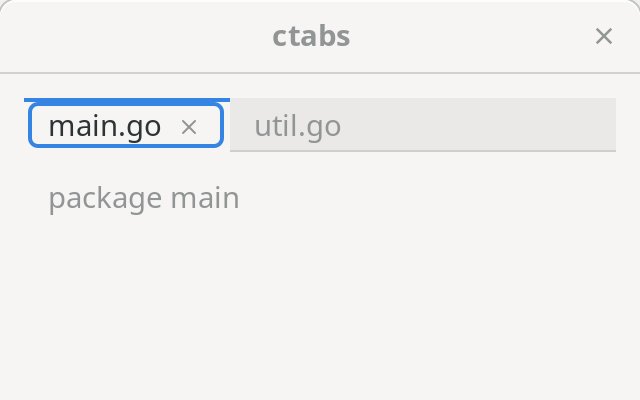
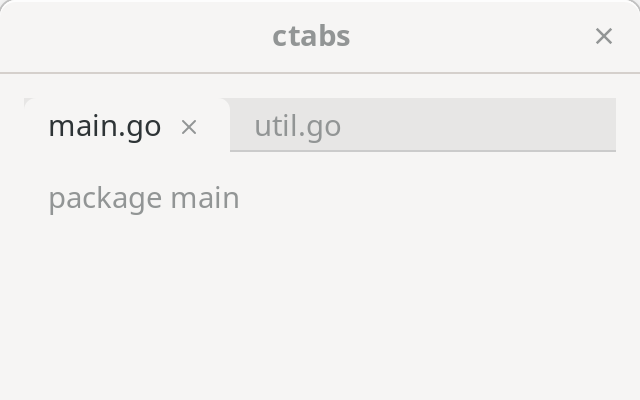
gowt: CTabs have one selection mark (the joined tab with round corners), the focus ring only for keyboard focus, dividers on Windows and macOS

Changed region(s): [[0.0312, 0.24, 0.375, 0.39]]

diff --git a/ctabs_render.go b/ctabs_render.go
@@ -13,6 +13,9 @@ type tabRenderer struct {
 	*swt.CTabFolderRenderer
 	f      *swt.CTabFolder
 	colors map[RGB]*swt.Color
+	// keys is true after a navigation key and false after a mouse press, the rule of the OS focus
+	// rings: none for a click and none for the focus a window starts with.
+	keys bool
 }
 
 // newTabRenderer installs the renderer on f and sets the tab height from the density tokens.
@@ -21,6 +24,7 @@ func newTabRenderer(f *swt.CTabFolder) *tabRenderer {
 	r.CTabFolderRenderer = swt.NewCTabFolderRenderer(f)
 	r.SetImpl_(r)
 	f.SetRenderer(r)
+	r.trackKeys()
 	f.SetTabHeight(int32(Spacing.ControlHeight - 1))
 	return r
 }
@@ -39,7 +43,7 @@ func (r *tabRenderer) palette() tabPalette {
 	}
 	d := r.f.GetDisplay()
 	p := tabPalette{base: rgbOf(r.f.GetBackground().GetRGB()), fg: rgbOf(r.f.GetForeground().GetRGB())}
-	shade := 0.05
+	shade := 0.06
 	if dark {
 		shade = 0.25
 	}
@@ -161,14 +165,26 @@ func (r *tabRenderer) drawTab(i, state int32, b *swt.Rectangle, gc *swt.GC) {
 	}
 	switch {
 	case sel:
-		r.fill(gc, p.base, b.X, b.Y, b.Width, b.Height)
-		iy := b.Y
-		if r.bottom() {
-			iy = b.Y + b.Height - 2
+		// The tab is the content's surface with round top corners and covers the hairline under it.
+		old := gc.GetClipping()
+		gc.SetClipping(b.X, b.Y, b.Width, b.Height)
+		gc.SetBackground(r.c(p.base))
+		if tabRadius == 0 {
+			gc.FillRectangle(b.X, b.Y, b.Width, b.Height)
+		} else {
+			gc.SetAntialias(swt.ON)
+			y := b.Y
+			if r.bottom() {
+				y -= tabRadius
+			}
+			gc.FillRoundRectangle(b.X, y, b.Width, b.Height+tabRadius, 2*tabRadius, 2*tabRadius)
 		}
-		r.fill(gc, p.accent, b.X, iy, b.Width, 2)
+		gc.SetClipping(old.X, old.Y, old.Width, old.Height)
 	case hot:
 		r.fill(gc, p.hover, b.X, bodyY, b.Width, bodyH)
+	}
+	if tabDividers && !sel && !hot && i+1 < r.f.GetItemCount() && i+1 != r.f.GetSelectionIndex() {
+		r.fill(gc, p.line, b.X+b.Width-1, bodyY+8, 1, bodyH-16)
 	}
 	x, right := b.X+int32(Spacing.MD), b.X+b.Width-int32(Spacing.MD)
 	var closeR *swt.Rectangle
@@ -194,7 +210,7 @@ func (r *tabRenderer) drawTab(i, state int32, b *swt.Rectangle, gc *swt.GC) {
 		gc.SetForeground(r.c(col))
 		gc.DrawTextStringXYFlags(text, x, bodyY+(bodyH-ext.Y)/2, swt.CTabFolderRendererFLAGS)
 	}
-	if sel && r.f.IsFocusControl() {
+	if sel && r.keys && r.f.IsFocusControl() {
 		gc.SetAntialias(swt.ON)
 		gc.SetLineWidth(2)
 		gc.SetForeground(r.c(p.accent))
@@ -267,3 +283,37 @@ func redrawOnTheme(f *swt.CTabFolder) {
 type tabTheme struct{ f *swt.CTabFolder }
 
 func (t *tabTheme) HandleEvent(*swt.Event) { t.f.Redraw() }
+
+// trackKeys follows the keyboard: a navigation key shows the focus ring, a mouse press hides it.
+func (r *tabRenderer) trackKeys() {
+	d := r.f.GetDisplay()
+	l := &tabKeys{r}
+	d.AddFilter(swt.KeyDown, l)
+	d.AddFilter(swt.MouseDown, l)
+	r.f.AddDisposeListener(disposeFunc(func() {
+		d.RemoveFilter(swt.KeyDown, l)
+		d.RemoveFilter(swt.MouseDown, l)
+	}))
+}
+
+type tabKeys struct{ r *tabRenderer }
+
+func (t *tabKeys) HandleEvent(e *swt.Event) {
+	keys := e.Type == swt.KeyDown
+	if keys {
+		switch e.KeyCode {
+		case swt.ARROW_UP, swt.ARROW_DOWN, swt.ARROW_LEFT, swt.ARROW_RIGHT:
+		default:
+			keys = e.Character == '\t' || e.Character == ' '
+			if !keys {
+				return
+			}
+		}
+	}
+	if t.r.keys != keys {
+		t.r.keys = keys
+		if !t.r.f.IsDisposed() {
+			t.r.f.Redraw()
+		}
+	}
+}

diff --git a/ctabs_look_other.go b/ctabs_look_other.go
@@ -11,3 +11,9 @@ func tabSeparator(_ *swt.Display, bg, fg RGB, _ bool) RGB { return mixRGB(bg, fg
 func tabAccent(d *swt.Display, _ bool) RGB {
 	return rgbOf(d.GetSystemColor(swt.COLOR_LIST_SELECTION).GetRGB())
 }
+
+// tabRadius is the corner radius of the selected tab, tabDividers whether unselected neighbours have a divider.
+const (
+	tabRadius   = 6
+	tabDividers = false
+)

diff --git a/ctabs_look_darwin.go b/ctabs_look_darwin.go
@@ -18,3 +18,9 @@ func tabSeparator(_ *swt.Display, bg, _ RGB, dark bool) RGB {
 func tabAccent(_ *swt.Display, dark bool) RGB {
 	return overRGB(cocoa.AccentRGBA(dark), RGB{})
 }
+
+// tabRadius is the corner radius of the selected tab, tabDividers whether unselected neighbours have a divider.
+const (
+	tabRadius   = 0
+	tabDividers = true
+)

diff --git a/ctabs_look_windows.go b/ctabs_look_windows.go
@@ -12,3 +12,9 @@ func tabAccent(d *swt.Display, _ bool) RGB {
 	a := fluent.Current(d).Accent
 	return RGB{a.R, a.G, a.B}
 }
+
+// tabRadius is the corner radius of the selected tab, tabDividers whether unselected neighbours have a divider.
+const (
+	tabRadius   = 8
+	tabDividers = true
+)

diff --git a/CHANGELOG.md b/CHANGELOG.md
@@ -17,6 +17,7 @@ gfx/pen absolute children
 - Fixed: `gfx/pen` reads `layoutPosition: "absolute"`. Such a child sits at its x and y in the parent, takes no gap slot and does not grow a hug parent; before, it was laid out in the flow.
 
 CTabs look
+- Changed: the selected `CTabs` tab has no accent line any more: it is the content surface with round top corners (radius 8 on Windows, 6 on GNOME, square on macOS) and covers the strip hairline; unselected neighbours have a thin divider on Windows and macOS. The focus ring shows only after Tab, an arrow key or Space and hides after a mouse press, so not for the focus a window starts with.
 - Changed: `CTabs` draws a modern document tab bar on every OS: a flat strip with a hairline in the system separator colour, the selected tab in the folder's background (so it joins the content) with a 2 px accent line, secondary text on the other tabs with a hover fill, the Type.Body font, the tab height from Spacing.ControlHeight, a round close button shown on the selected and the hovered tab, and an accent ring on the selected tab while the folder has the focus. Set the folder's `Background` to the editor's colour so that the tab joins it. A `CTabs` now selects its first tab when created; SWT did so only when the folder got the focus.
 - Changed: j2go has `dispatch.properties`: a class listed there dispatches through `impl` and exports its protected constructors, so Go code can subclass it. `swt.CTabFolderRenderer` is the first: embed it, `NewCTabFolderRenderer(folder)`, `SetImpl_(x)`, define `Draw_`, `ComputeSize_`, `ComputeTrim_`, `Dispose_`, then `CTabFolder.SetRenderer(x)`.
 
